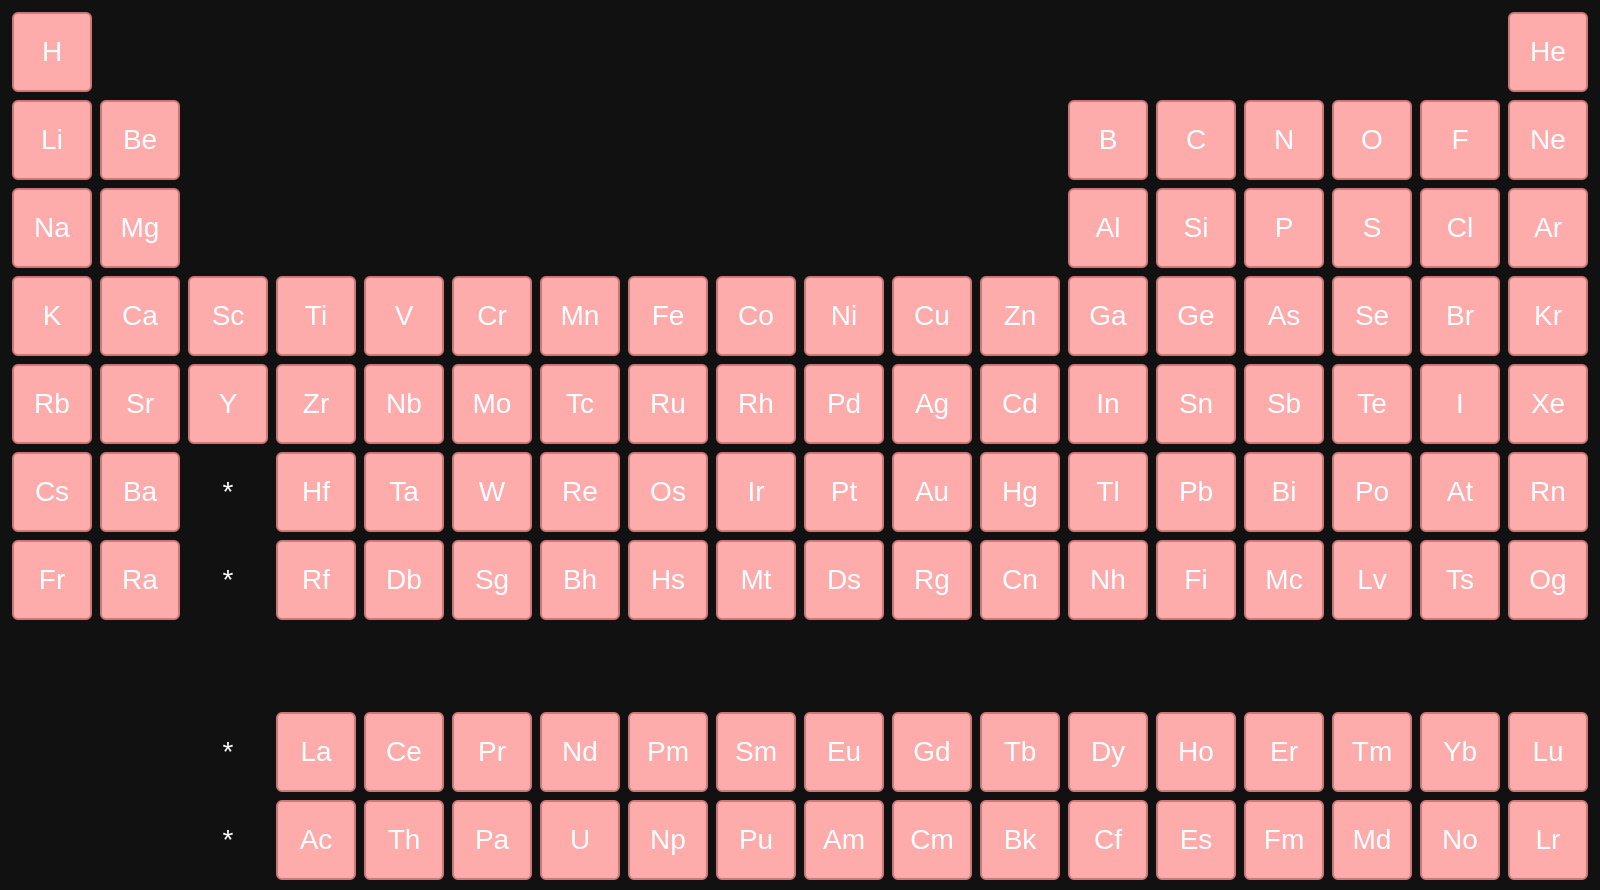
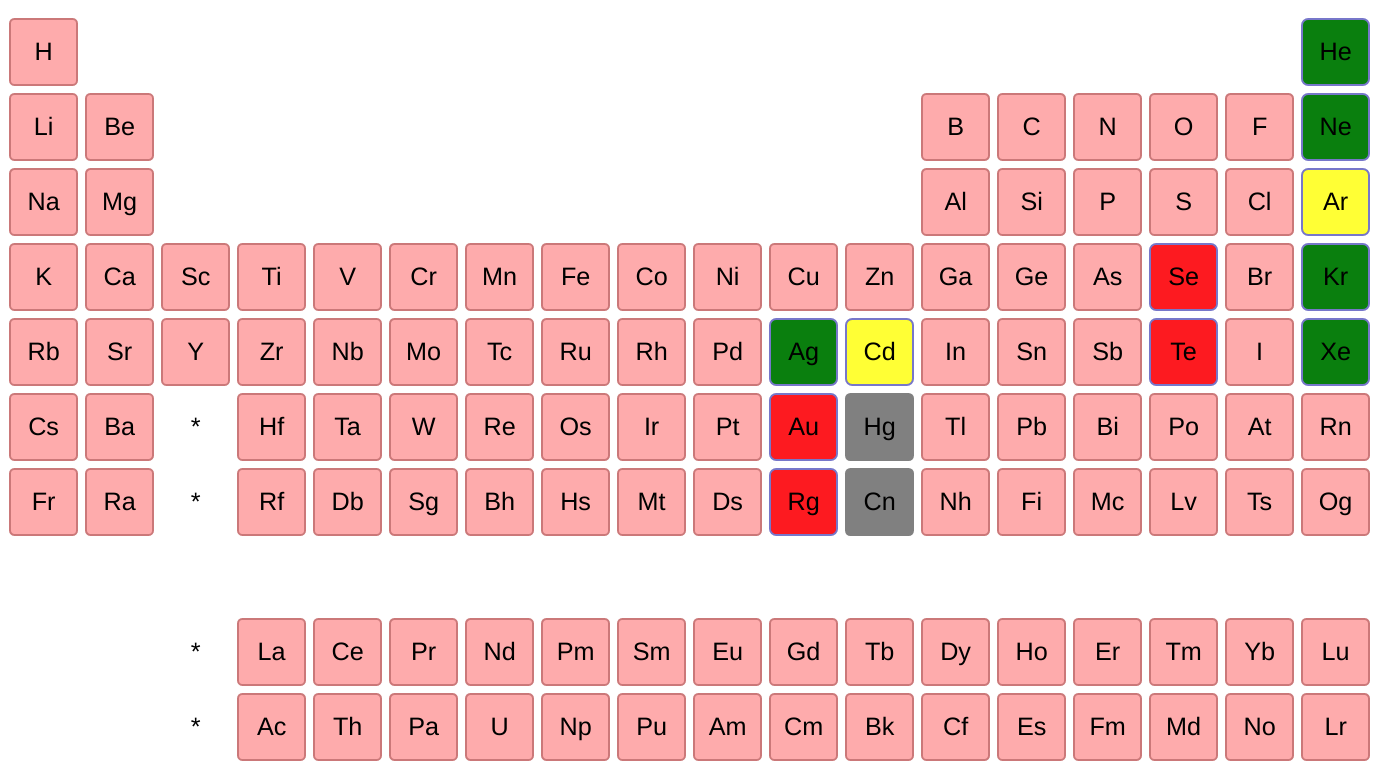
Update the README

diff --git a/src/widget.ts b/src/widget.ts
@@ -89,7 +89,7 @@ class MCPTableView extends DOMWidgetView {
   '(! disabledElements.includes(elementName)) ) { print(" elementOn"); } %>" '+
   'style="background-color: <% if (disabledElements.includes(elementName)) {print(disabledColor)} ' +
   'else if (selectedElements.includes(elementName))   { i = selectedElements.indexOf(elementName); print(selectedColors[selectedStates[i]]);} %>" '+
-  'title="group: <% if (selectedElements.includes(elementName)) { i = selectedElements.indexOf(elementName); print(selectedStates[i]);} %>" ><% '+
+  'title="state: <% if (selectedElements.includes(elementName)) { i = selectedElements.indexOf(elementName); print(selectedStates[i]);} %>" ><% '+
   'print(displayNamesReplacements[elementName] || elementName); %></span>' +
   '<% } }; print("</div>"); } %>');
 

diff --git a/README.md b/README.md
@@ -37,6 +37,16 @@ the nbextension:
 ```bash
 jupyter nbextension enable --py [--sys-prefix|--user|--system] widget_periodictable
 ```
+
+## Selection and disable
+
+By clicking on the elements, one can select and disable the elements. The selected elements can be divided into different states with custom colors.
+One can obtain the element list by state.
+
+```bash
+PTable.get_elements_by_state(1)
+```
+
 # Acknowlegements
 
 We acknowledge support from:
